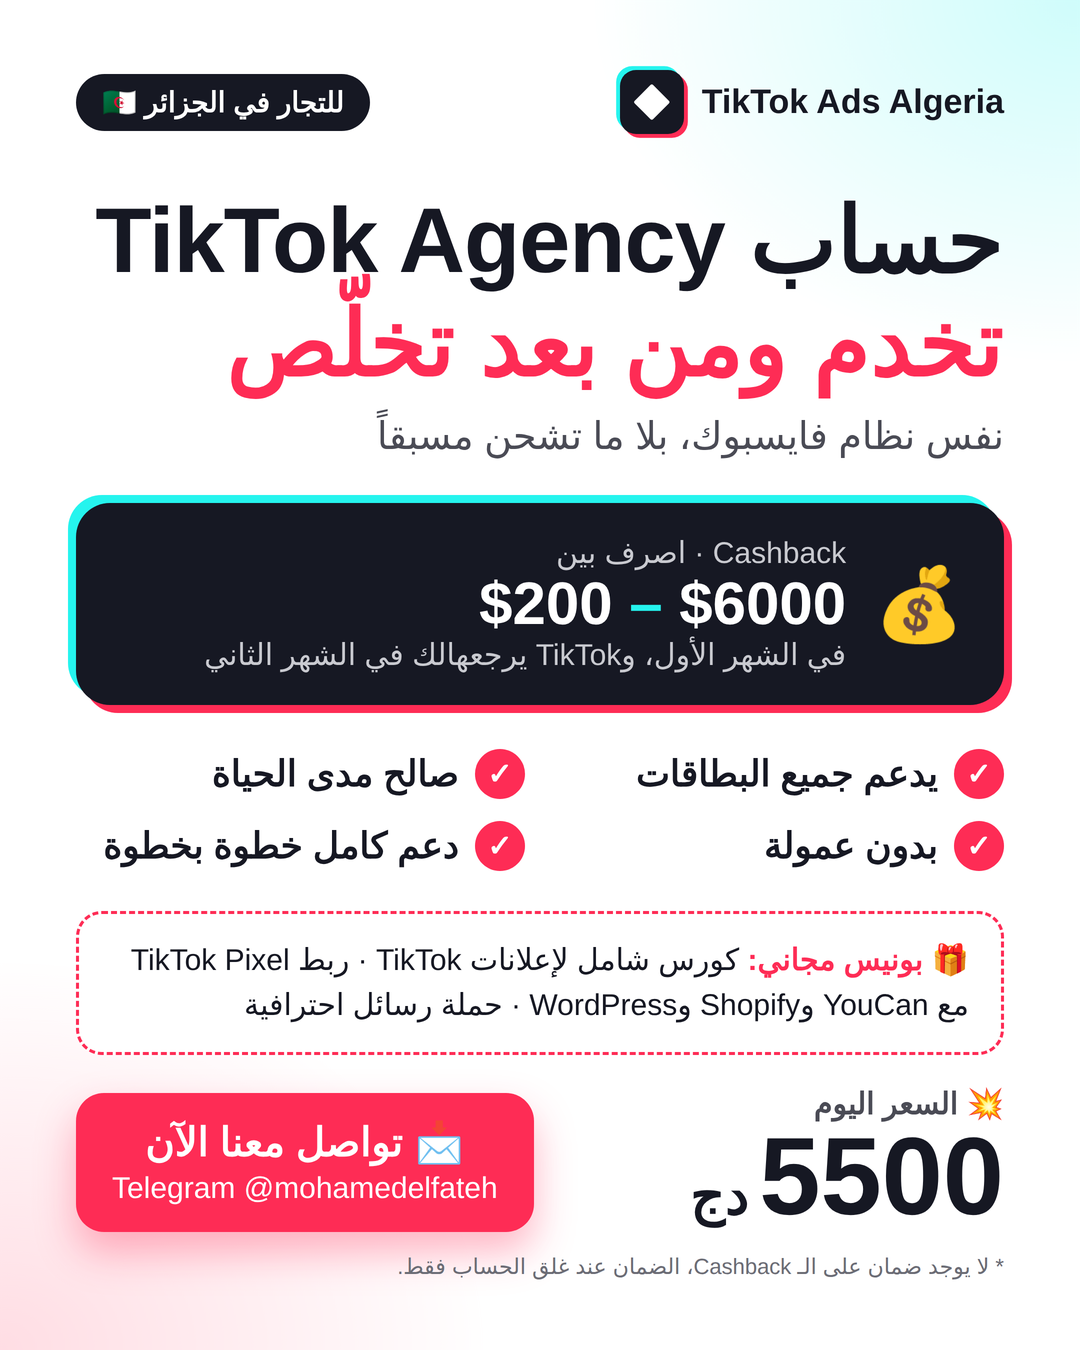
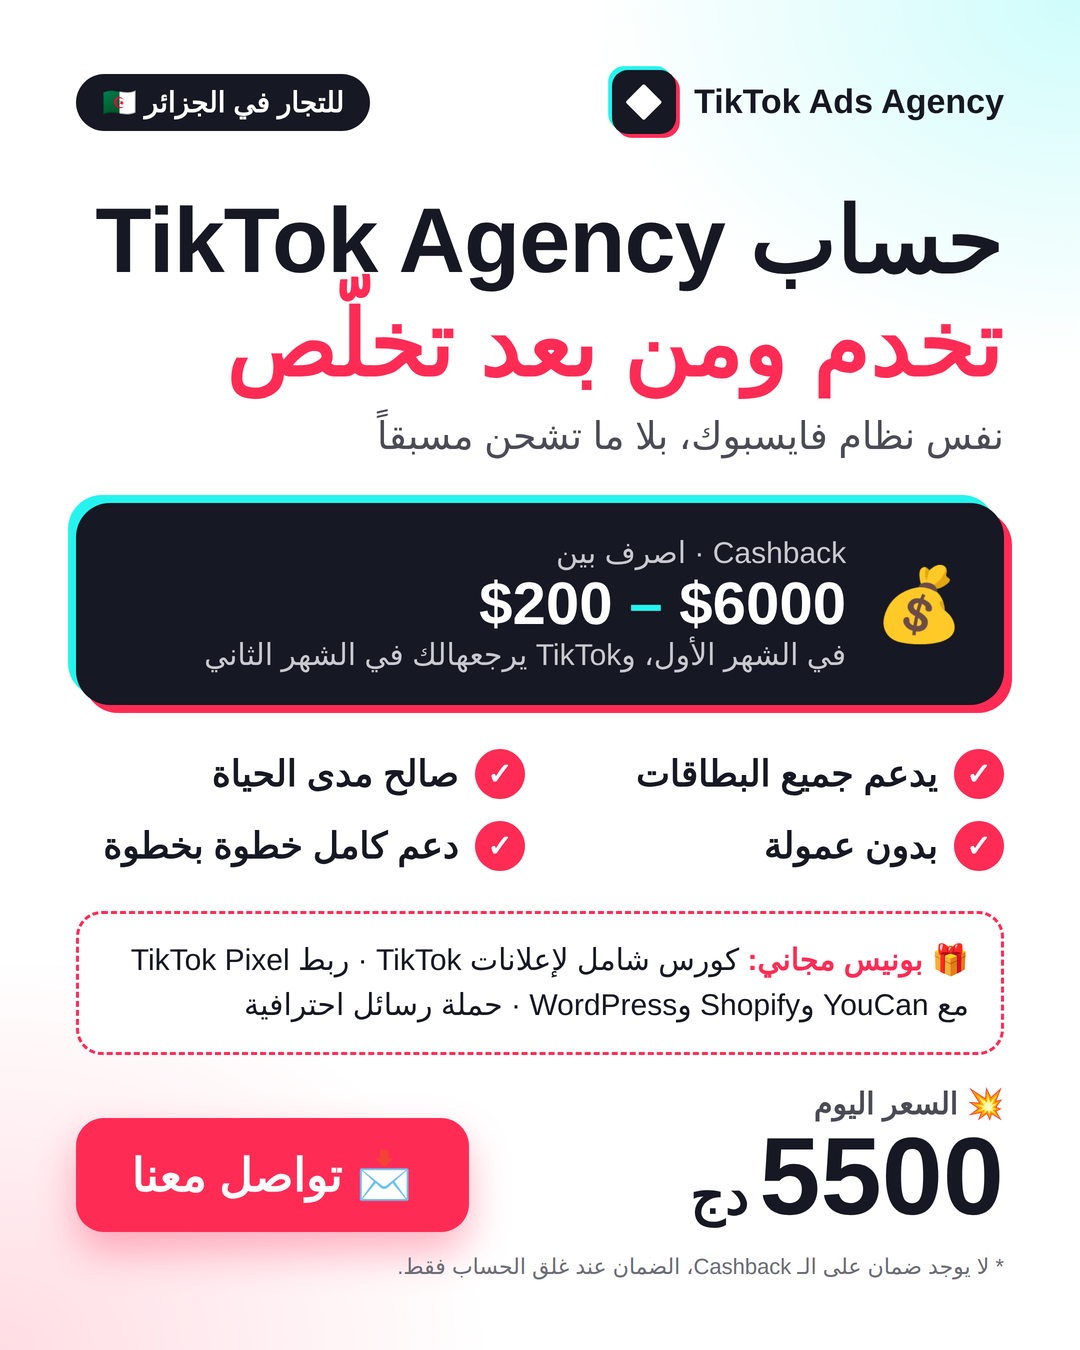
Rename brand to TikTok Ads Agency
Update the landing page, logos and Facebook post, and drop the
Telegram username from the post's contact button.

Claude-Session: https://claude.ai/code/session_01WkQtWFEeoyoMGD7RNTbUt3

Changed region(s): [[0.0611, 0.8089, 0.5194, 0.9333], [0.55, 0.0311, 0.9472, 0.1244]]

diff --git a/index.html b/index.html
@@ -3,7 +3,7 @@
 <head>
 <meta charset="utf-8">
 <meta name="viewport" content="width=device-width, initial-scale=1, viewport-fit=cover">
-<title>حساب TikTok Agency للتجار في الجزائر | TikTok Ads Algeria</title>
+<title>حساب TikTok Agency للتجار في الجزائر | TikTok Ads Agency</title>
 <meta name="description" content="حساب TikTok Agency للتجار في الجزائر بـ 5500 دج: نفس نظام فايسبوك، يدعم جميع البطاقات، صالح مدى الحياة، بدون عمولة، مع Cashback وبونيس مجاني.">
 <link rel="icon" href="assets/favicon.svg" type="image/svg+xml">
 <link rel="icon" href="assets/favicon-32.png" sizes="32x32" type="image/png">
@@ -369,7 +369,7 @@ wistia-player[media-id='fqndk3ckkp']:not(:defined){background:center / contain n
 
 <header class="header">
   <div class="container">
-    <a href="#" class="logo" aria-label="الصفحة الرئيسية"><span class="logo-mark">◆</span><span dir="ltr">TikTok Ads Algeria</span></a>
+    <a href="#" class="logo" aria-label="الصفحة الرئيسية"><span class="logo-mark">◆</span><span dir="ltr">TikTok Ads Agency</span></a>
     <nav class="nav" id="nav">
       <a href="#offer">العرض</a>
       <a href="#process">كيفاش نخدمو</a>
@@ -714,7 +714,7 @@ wistia-player[media-id='fqndk3ckkp']:not(:defined){background:center / contain n
 </main>
 
 <footer class="footer">
-  <div class="copy"><div class="container">© <span id="yr"></span> <bdi dir="ltr">TikTok Ads Algeria</bdi>. جميع الحقوق محفوظة.</div></div>
+  <div class="copy"><div class="container">© <span id="yr"></span> <bdi dir="ltr">TikTok Ads Agency</bdi>. جميع الحقوق محفوظة.</div></div>
 </footer>
 
 <script>
